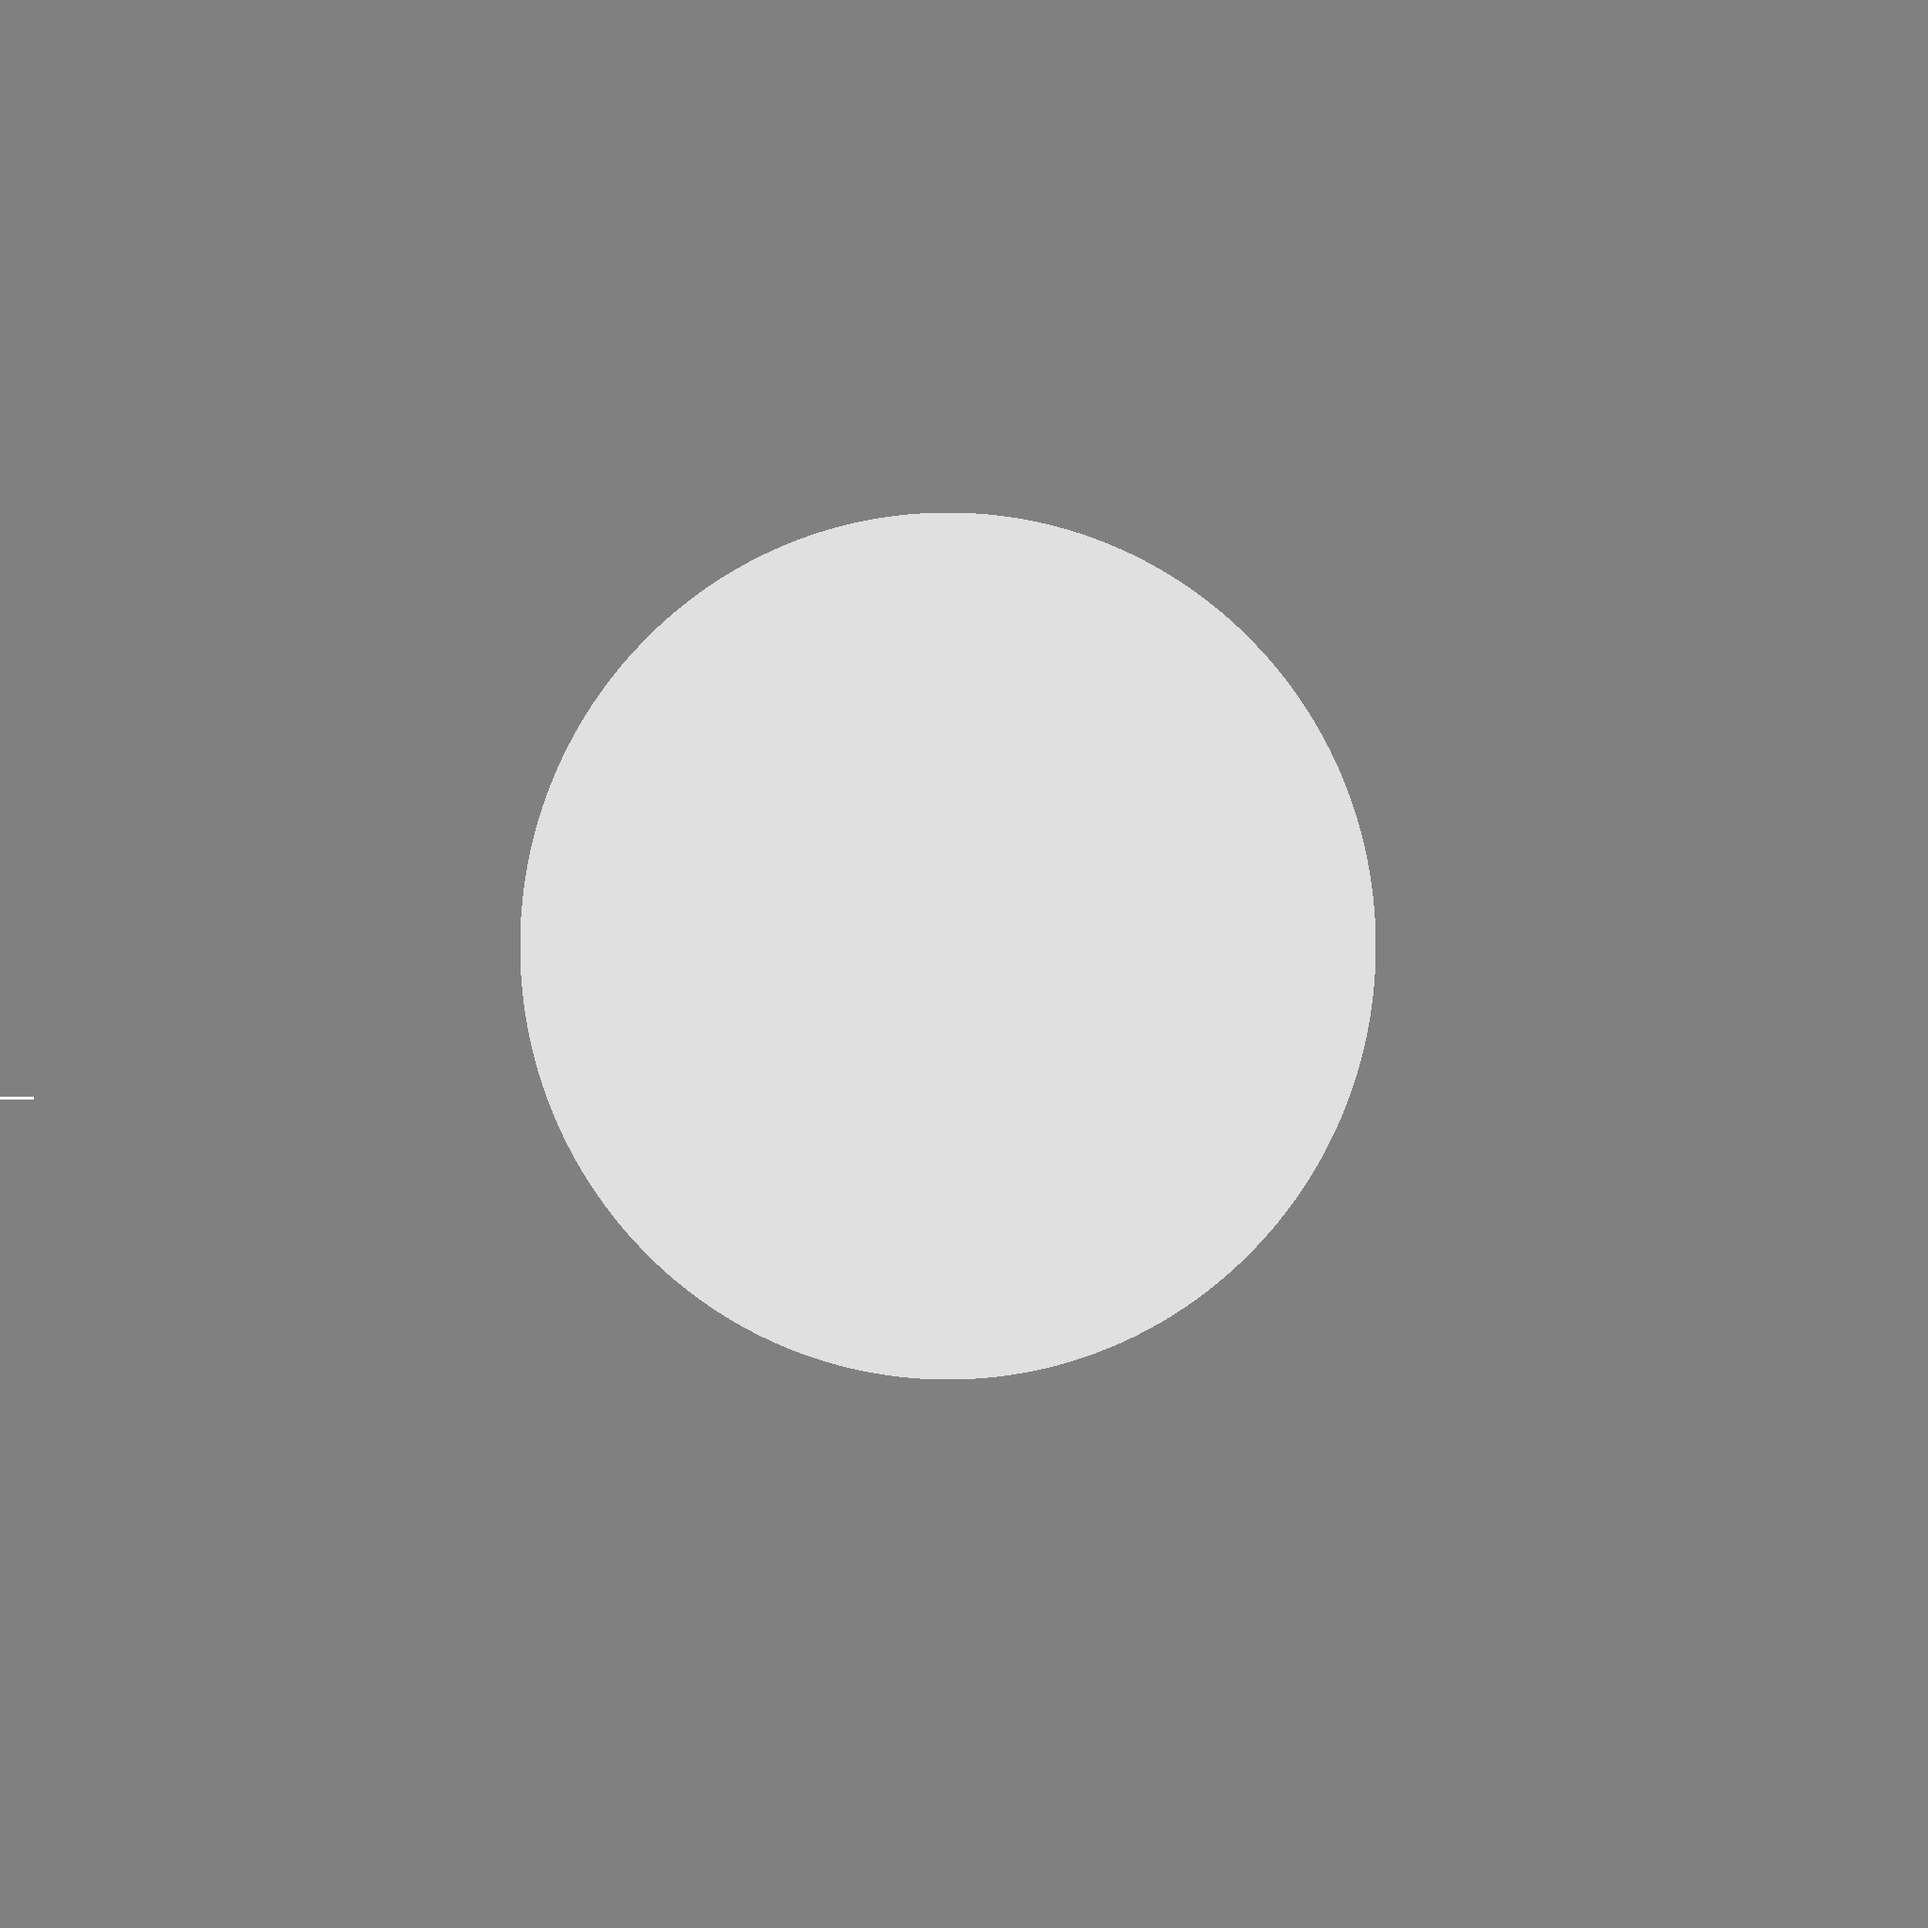
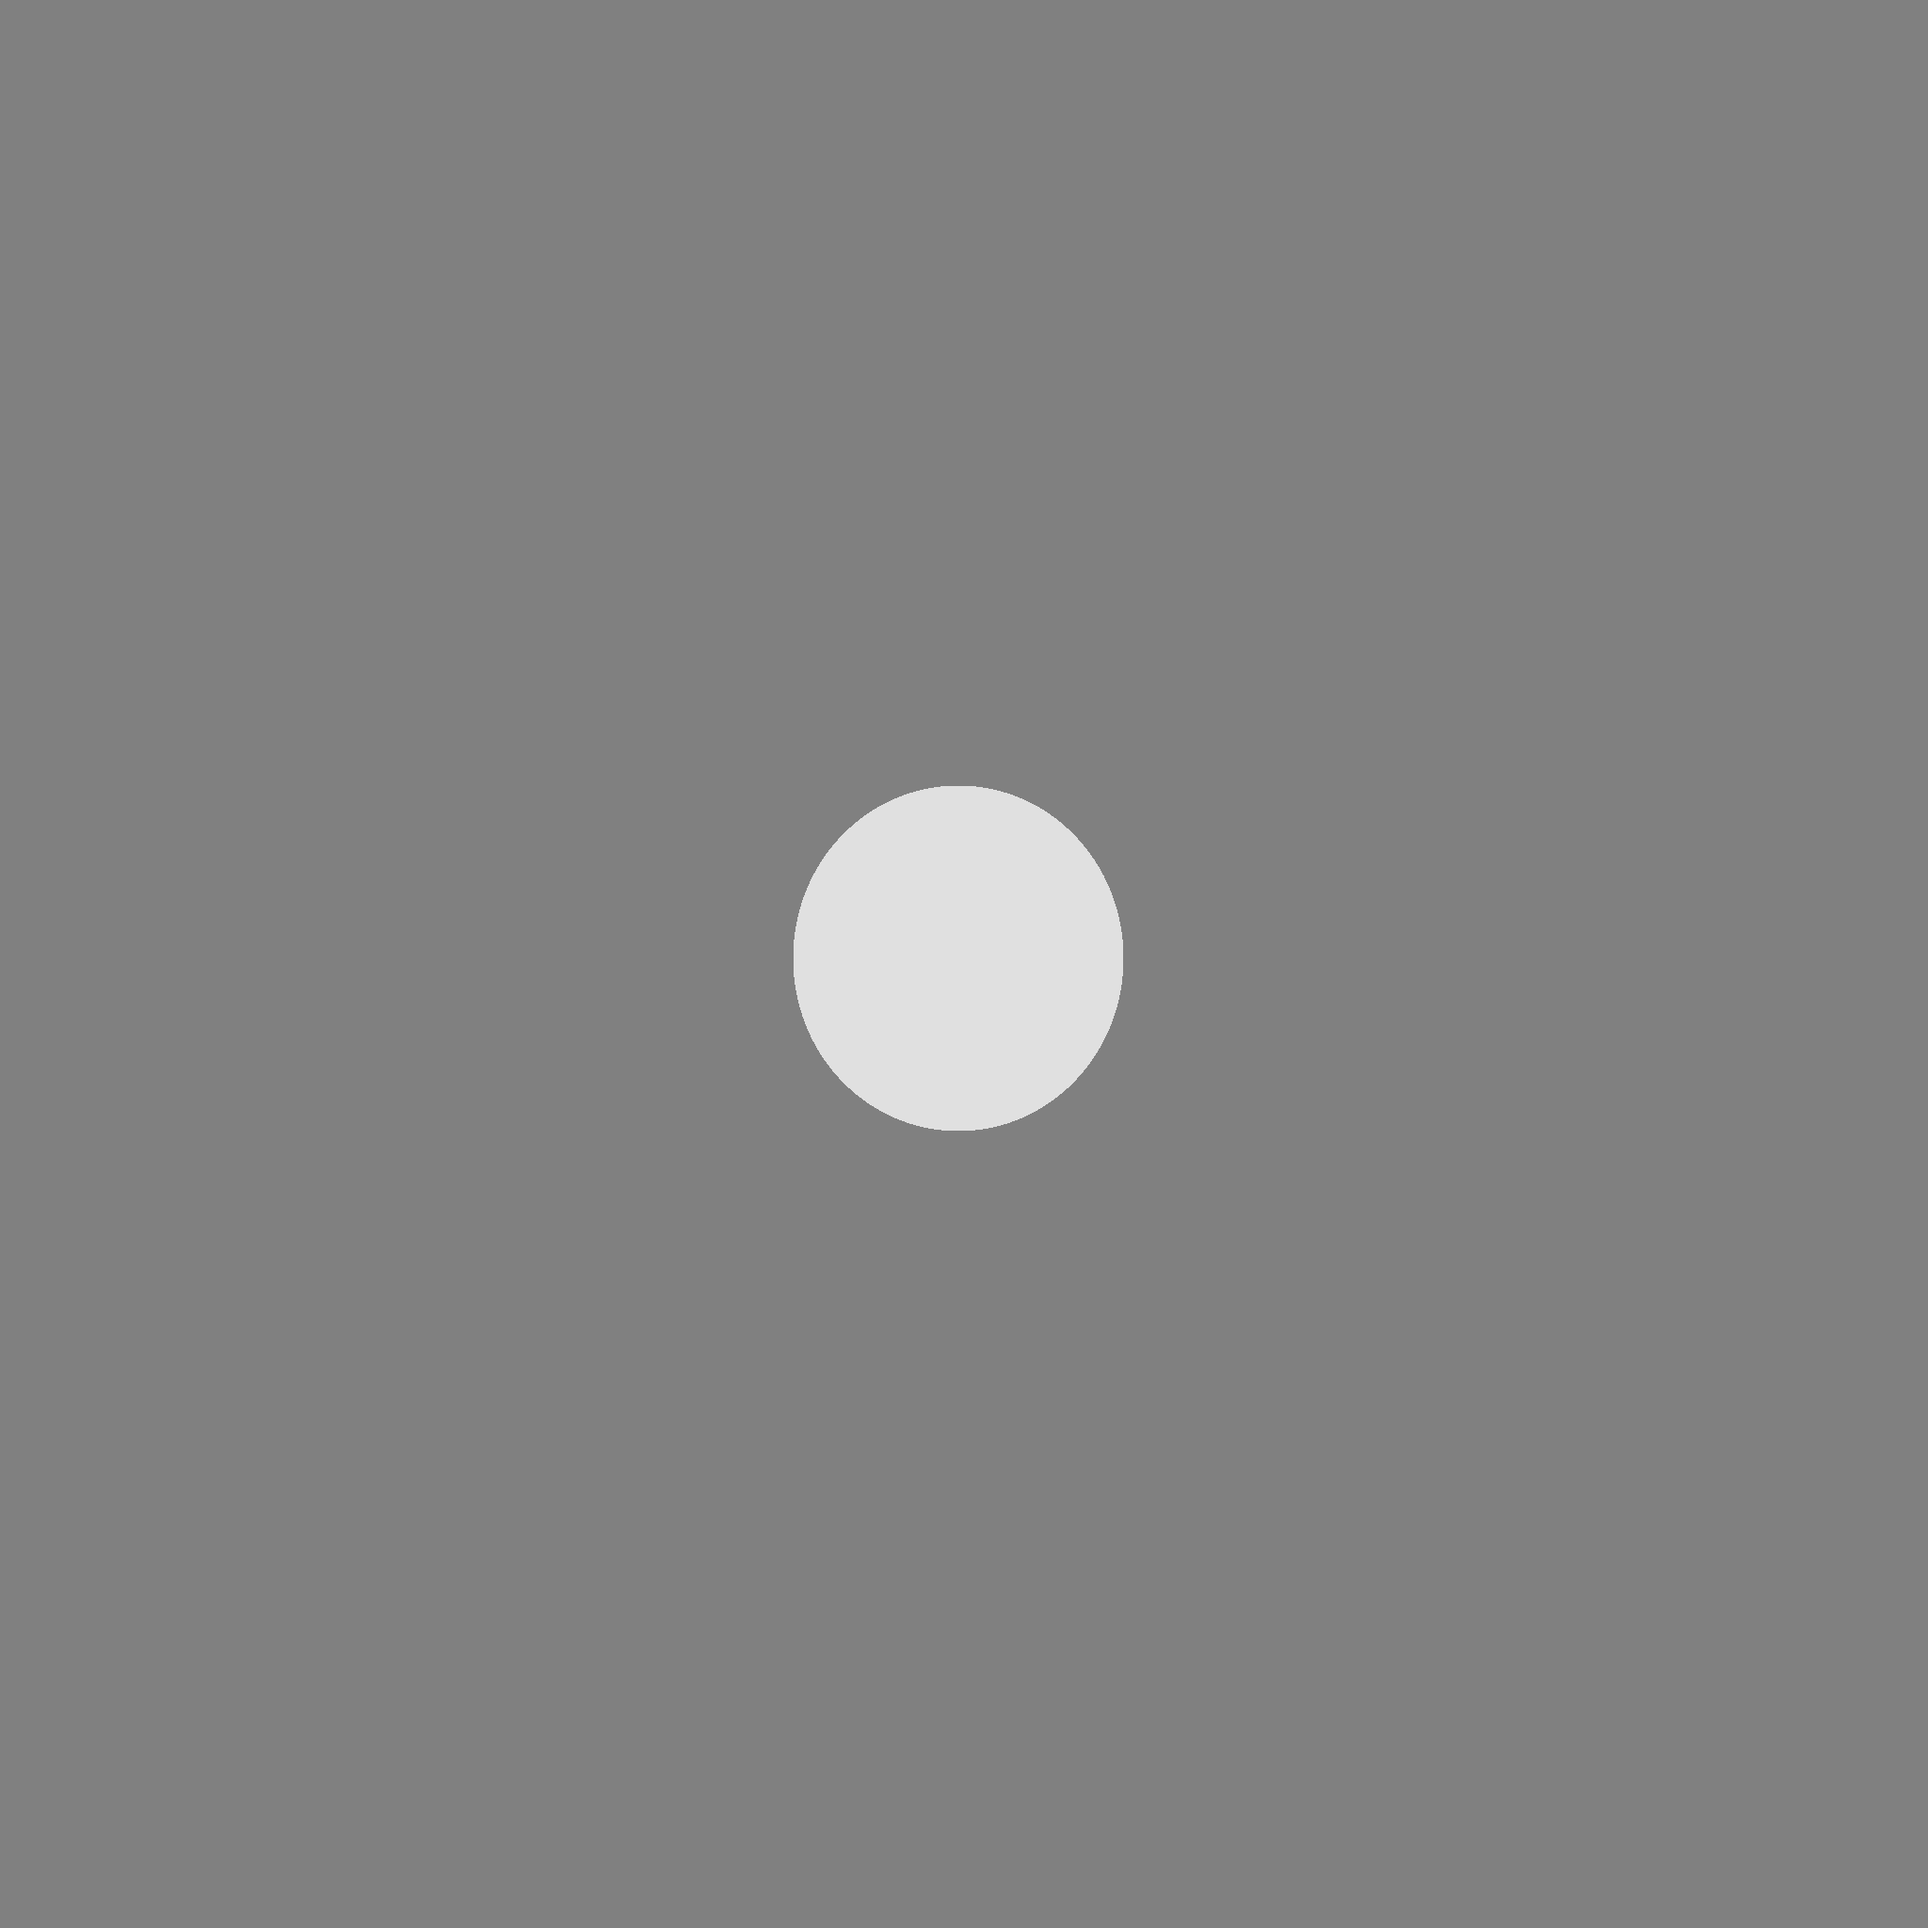
Correct esc menu

Changed region(s): [[0.25, 0.25, 0.7188, 0.7188]]

diff --git a/ru_RU.ts b/ru_RU.ts
@@ -29,7 +29,7 @@
     <message>
         <location filename="Client/drawgl.cpp" line="634"/>
         <source>From start game: </source>
-        <translation>Прошло:</translation>
+        <translation>Прошло: </translation>
     </message>
     <message>
         <location filename="Client/drawgl.cpp" line="635"/>
@@ -89,7 +89,7 @@
     <message>
         <location filename="Client/drawgl.cpp" line="693"/>
         <source>Mouse Sensitivity: </source>
-        <translation>Чувствительность мыши:</translation>
+        <translation>Чувствительность мыши: </translation>
     </message>
     <message>
         <location filename="Client/drawgl.cpp" line="694"/>

diff --git a/Client/startdialog.cpp b/Client/startdialog.cpp
@@ -37,6 +37,7 @@ startDialog::startDialog(QApplication *a, int argc, char *argv[], QWidget *paren
         loadSettings();
     }
     ui->commandLinkButton->setFocus();
+    QObject::connect((new QMenuBar(this))->addMenu("File")->addAction("Exit"), SIGNAL(triggered()), this, SLOT(close()));
 }
 
 void startDialog::start() {
@@ -78,7 +79,7 @@ void startDialog::setPix(QString s) {
 void startDialog::paintEvent(QPaintEvent *event) {
     QPainter p(this);
 
-    p.drawPixmap(0, 130, this->width(), 300, *pix);
+    p.drawPixmap(0, 135, this->width(), 300, *pix);
 
     p.end();
     event->accept();

diff --git a/Client/drawgl.cpp b/Client/drawgl.cpp
@@ -727,7 +727,7 @@ void DrawGl::drawMenu() {
 }
 
 void DrawGl::drawOkular() {
-    int r = min(width() / 2, height() / 2) * 2;
+    int r = min(width() / 2, height() / 2) * 4;
     loadTexture(textures[okular]);
     begin2d();
     glBegin(GL_QUADS);

diff --git a/Client/startdialog.h b/Client/startdialog.h
@@ -8,6 +8,7 @@
 #include <QFileInfoList>
 #include <connection.h>
 #include <QSettings>
+#include <QMenuBar>
 
 
 const int dx[4]={0, 1, 0, -1};
